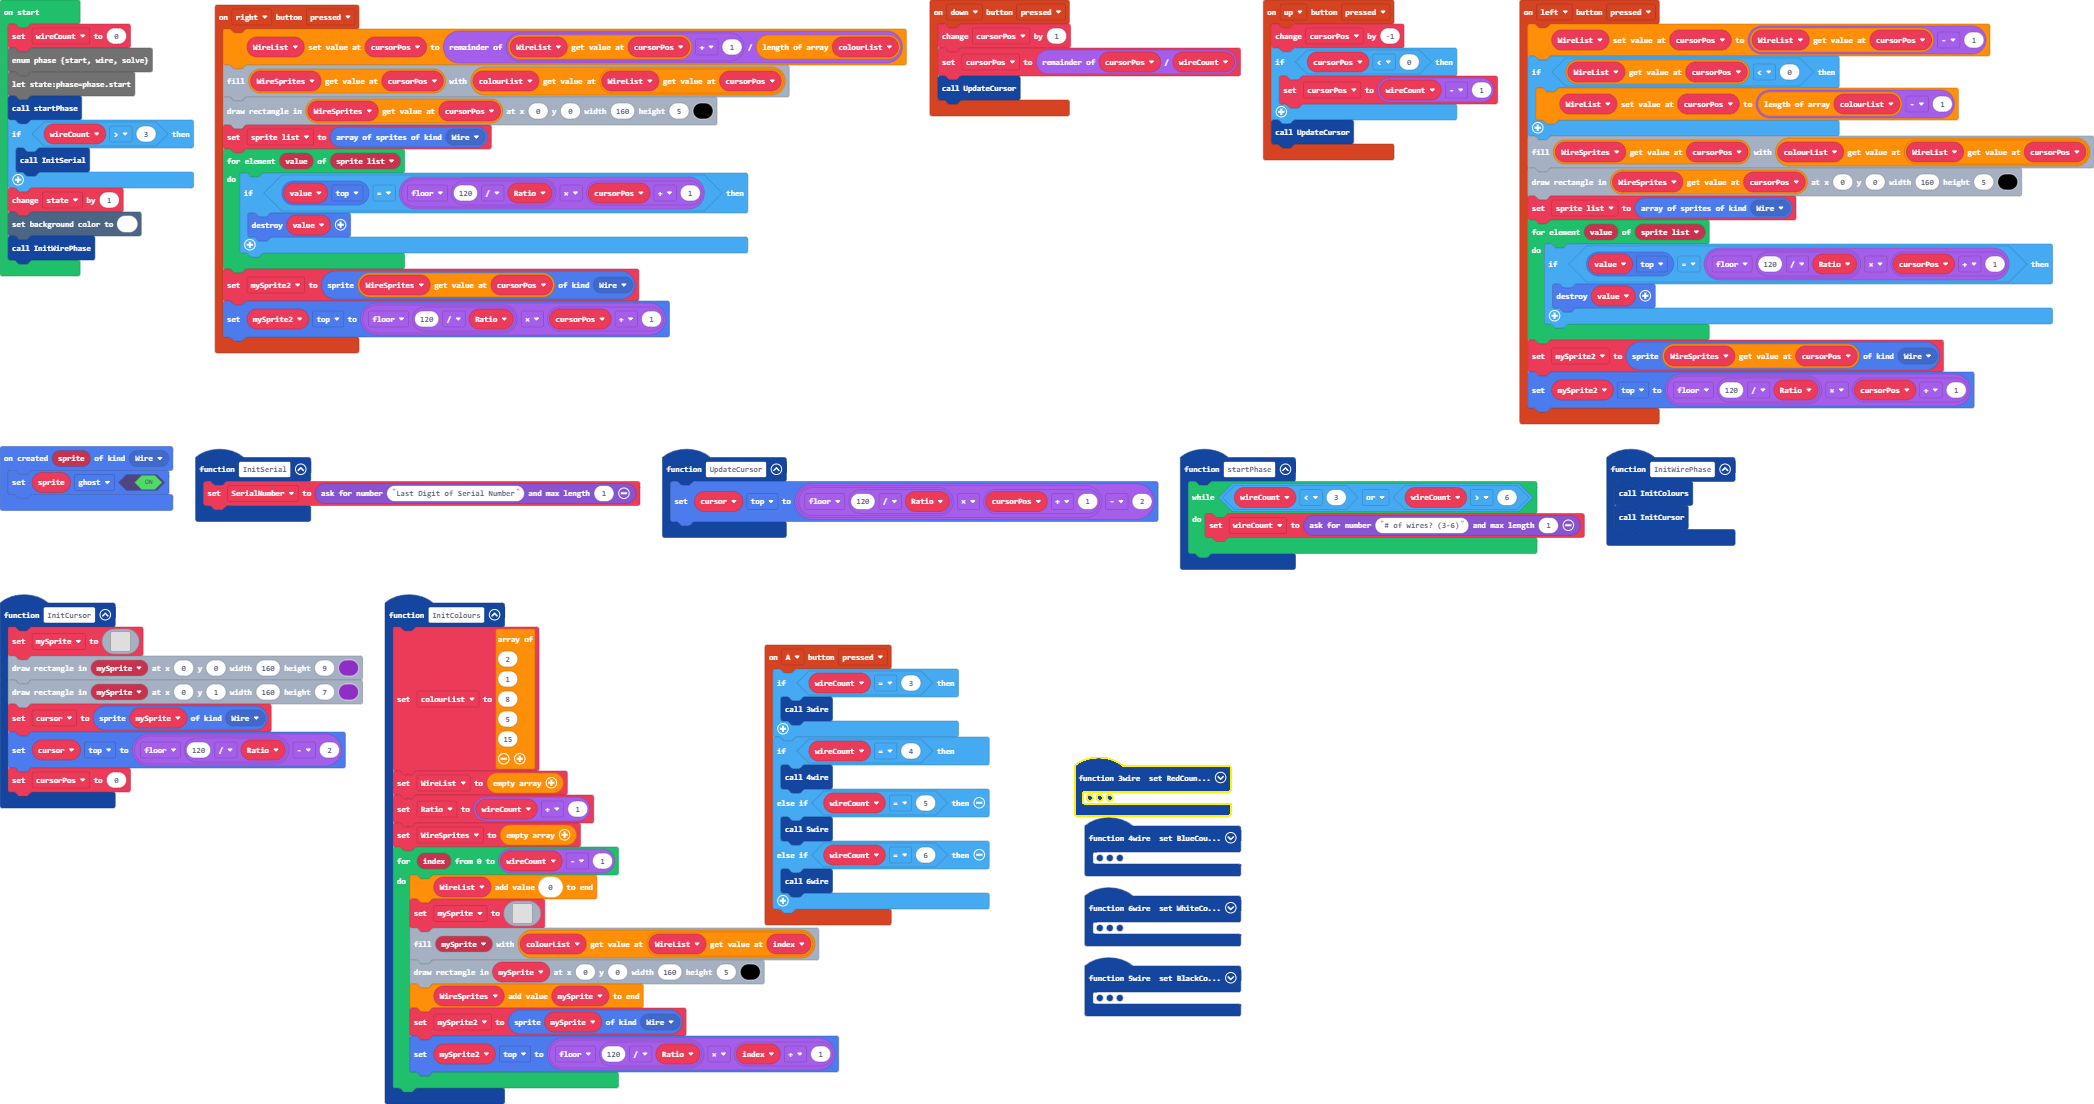
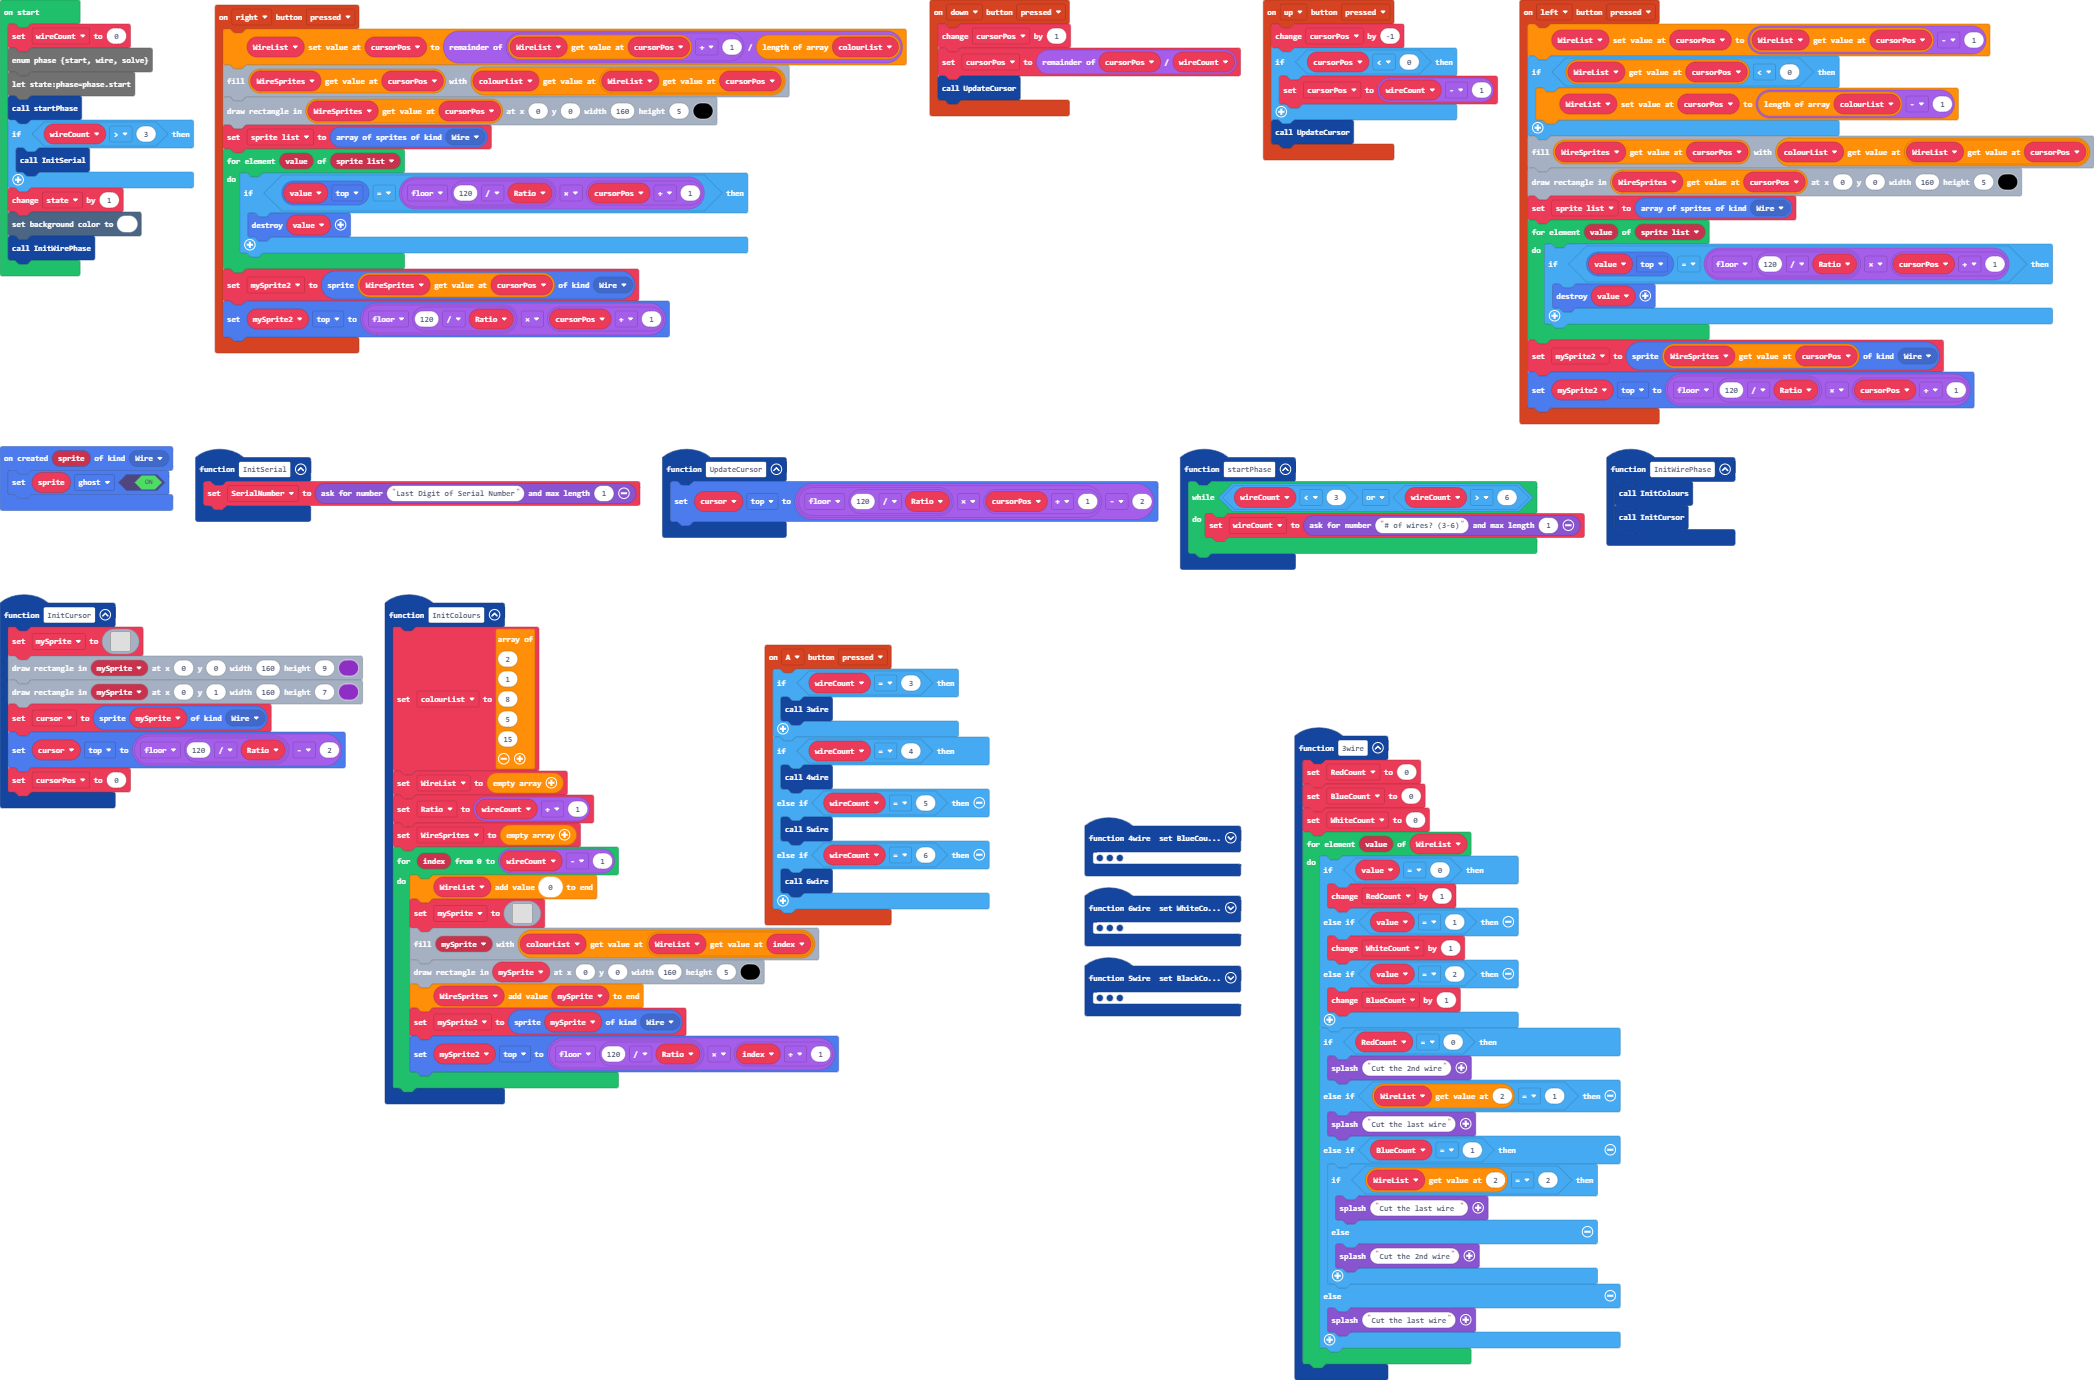
Update main.blocks, main.ts

diff --git a/main.ts b/main.ts
@@ -197,25 +197,28 @@ function _6wire () {
 function _3wire () {
     RedCount = 0
     BlueCount = 0
+    WhiteCount = 0
     for (let value of WireList) {
         if (value == 0) {
             RedCount += 1
         } else if (value == 1) {
+            WhiteCount += 1
+        } else if (value == 2) {
             BlueCount += 1
         }
-    }
-    if (RedCount == 0) {
-        game.splash("Cut the 2nd wire")
-    } else if (WireList[2] == 1) {
-        game.splash("Cut the last wire")
-    } else if (BlueCount == 1) {
-        if (WireList[2] == 2) {
-            game.splash("Cut the 3rd wire ")
-        } else if (WireList[1] == 2) {
+        if (RedCount == 0) {
             game.splash("Cut the 2nd wire")
+        } else if (WireList[2] == 1) {
+            game.splash("Cut the last wire")
+        } else if (BlueCount == 1) {
+            if (WireList[2] == 2) {
+                game.splash("Cut the last wire ")
+            } else {
+                game.splash("Cut the 2nd wire")
+            }
+        } else {
+            game.splash("Cut the last wire")
         }
-    } else {
-        game.splash("Cut the last wire")
     }
 }
 let WhiteCount = 0
